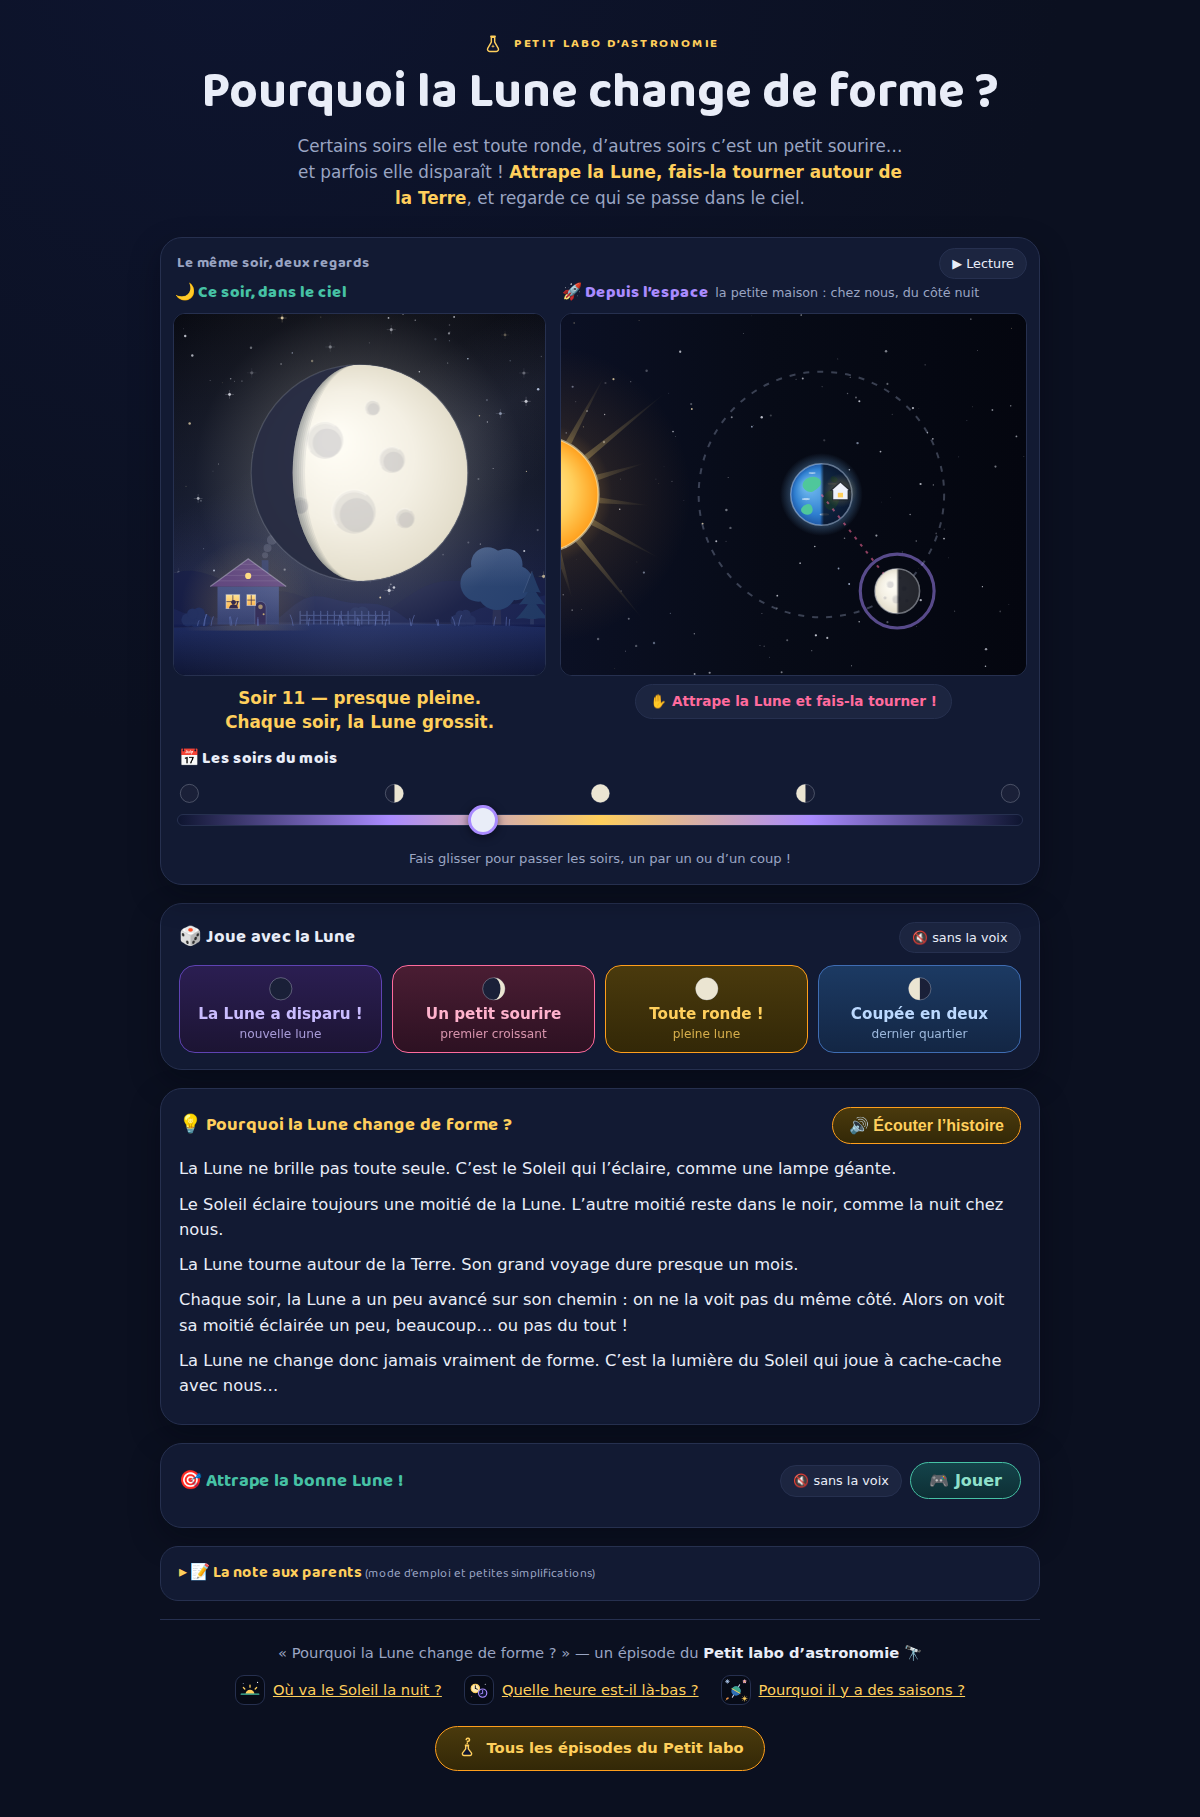
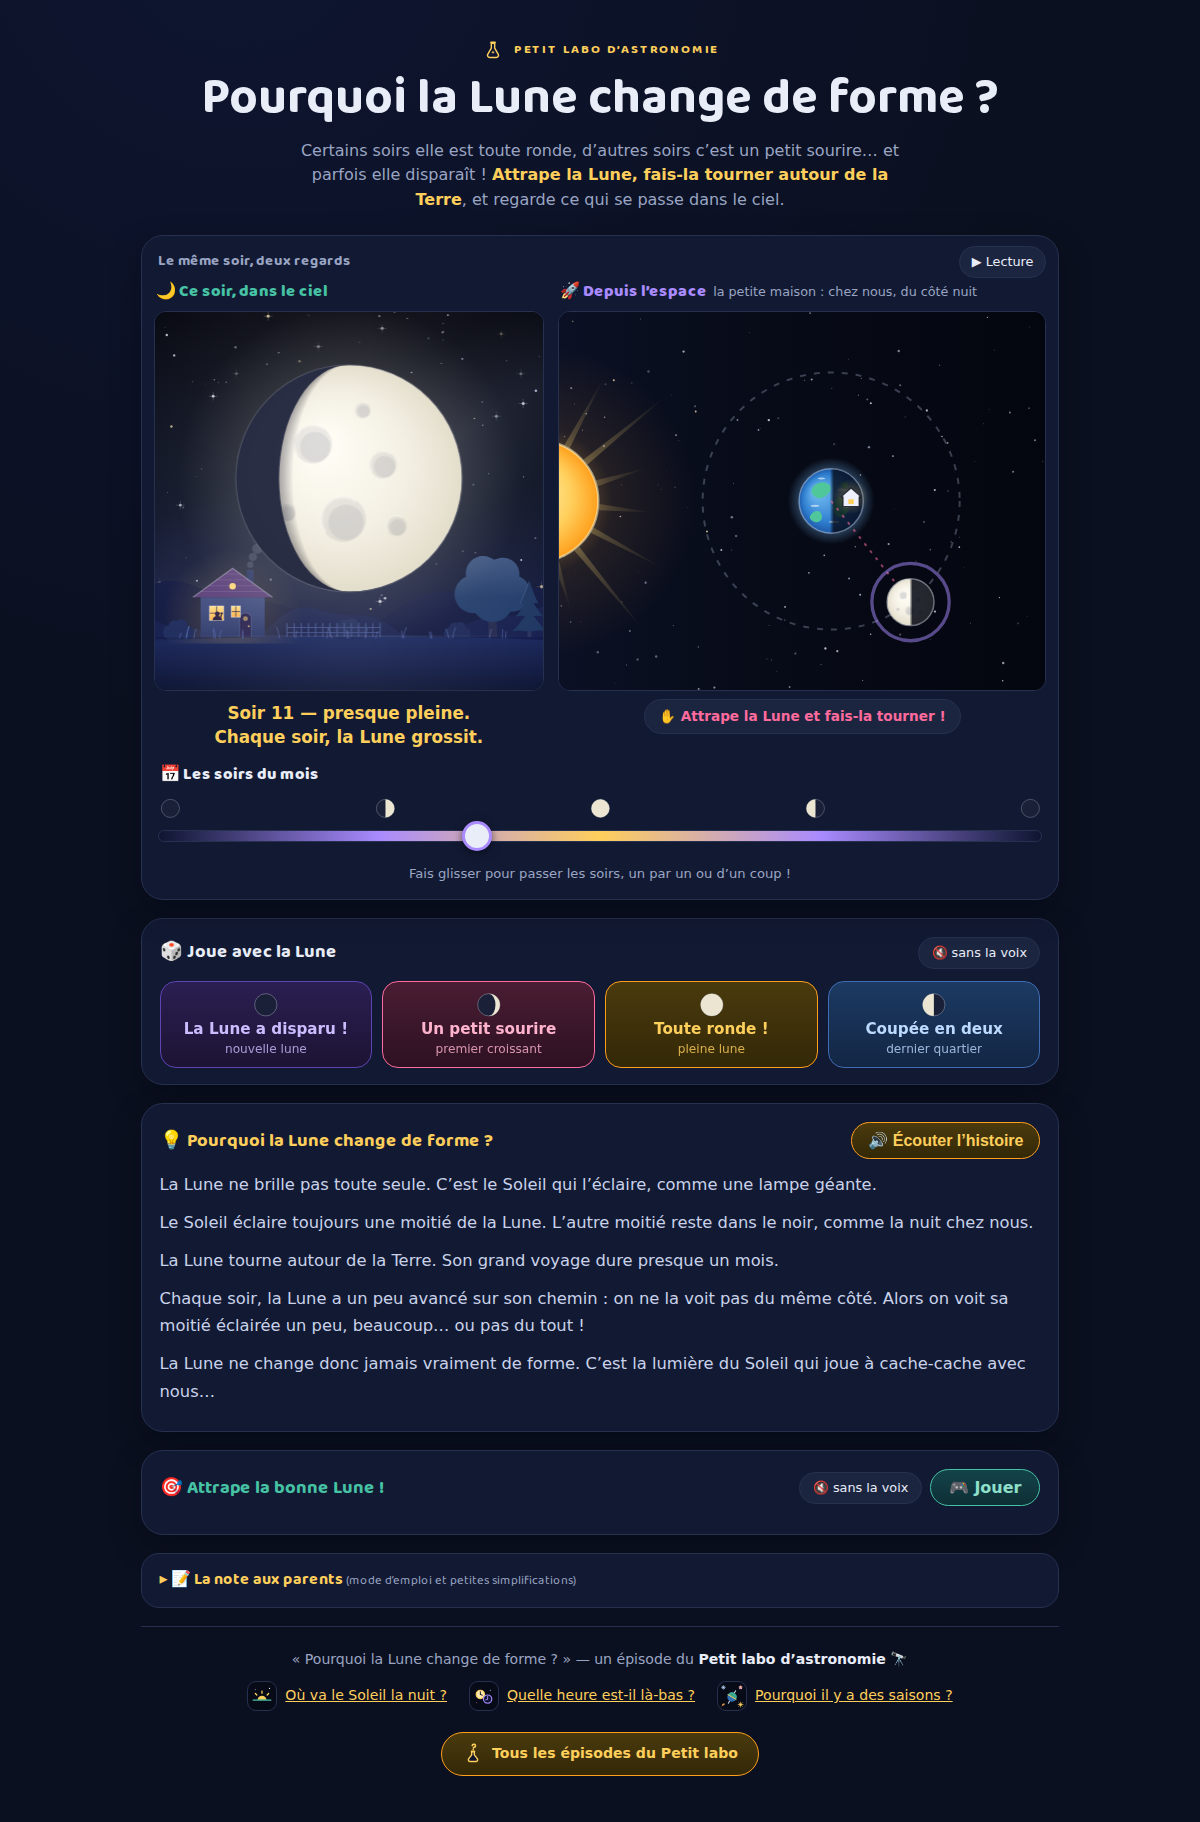
L'en-tête et les tailles de texte de la famille, plus de theme-color
Retour utilisateur : une petite bande en haut de la Lune par rapport aux
autres, et une police plus grosse sur mobile.

- la bande : body portait 20 px de marge haute que les autres n'ont pas,
  et la Lune était seule à déclarer un theme-color (#0b1020, un aplat que
  Safari iOS peint dans sa barre, visible contre le dégradé de la page).
  Marge retirée, theme-color retiré, en-tête au patron de la famille :
  38px 20px 22px, 18px 16px 10px sur mobile (kicker à 38/18 px comme les
  saisons et le soleil ; mesuré, mobile : la scène remonte de 47 px).
- les tailles : accroche 1 rem (0,92 sur mobile) au lieu de 1,05 partout ;
  corps de l'histoire en interligne 1,7 gris clair #c9d2ea ; note aux
  parents 0,93 rem ; pied 0,88 rem — la phrase du soir garde son corps.
- --entete-px re-mesuré (257 → 235, 169 → 149) ; captures docs/ régénérées ;
  tests Node et suite navigateur verts (portable 1440×900 : 887 px de large,
  tout tient encore).

Claude-Session: https://claude.ai/code/session_01Hk6FxKzoGdmQM6cSQbmVFo

diff --git a/css/style.css b/css/style.css
@@ -60,7 +60,9 @@ body {
   font-family: system-ui, -apple-system, "Segoe UI", Roboto, sans-serif;
   line-height: 1.55;
   min-height: 100vh;
-  padding: 20px 20px 40px;
+  /* pas de marge haute sur body : l'espace avant le kicker vit dans l'en-tête,
+     comme sur les autres épisodes (une bande de 20 px de plus se voyait) */
+  padding: 0 20px 40px;
 }
 
 /* la largeur de la famille : 1180 px marges comprises, 1140 px utiles,
@@ -78,13 +80,13 @@ main, header.entete, footer.pied-serie {
    (vues + phrase + frise) doivent tenir en 100vh. Mesuré à 1140 px : la
    scène fait 268 px de fixe (titres, phrase, frise, marges) + 0,432 × la
    largeur utile (les vues, 9/7 sur 1,25 colonne sur 2,25), l'en-tête
-   237 px + 20 px de marge haute du body (--entete-px). Plancher 880 px :
+   235 px (--entete-px, bas de l'en-tête = haut de la scène). Plancher 880 px :
    en dessous, l'orbite passerait sous 465 px — la vue qu'on manipule ne se
    sacrifie pas (règle de méthode de la famille). Sans clamp() (vieux
    navigateurs), la ligne est ignorée et la largeur reste 1140. Rien sous
    880 px : le mobile a son propre budget (bloc mobile plus bas). */
 @media (min-width: 880px) {
-  :root { --entete-px: 257px; }
+  :root { --entete-px: 235px; }
   main, header.entete, footer.pied-serie {
     max-width: clamp(880px, calc((100vh - 268px - var(--entete-px)) / 0.432), 1140px);
   }
@@ -109,7 +111,9 @@ main, header.entete, footer.pied-serie {
 
 /* ---------- En-tête ---------- */
 
-.entete { text-align: center; padding: 12px 0 26px; }
+/* l'en-tête de la famille (saisons, soleil, fuseaux) : 38 px avant le kicker,
+   22 sous l'accroche ; 18/16/10 sur mobile (bloc mobile plus bas) */
+.entete { text-align: center; padding: 38px 20px 22px; }
 
 /* le kicker porte la fiole de la série (l'étoile dedans) à côté de son texte,
    comme le portail porte la fiole maître à côté de son nom — règle de la charte */
@@ -140,22 +144,22 @@ main, header.entete, footer.pied-serie {
   color: var(--muted);
   max-width: 620px;
   margin: 0 auto;
-  font-size: 1.05rem;
+  font-size: 1rem; /* la taille de la famille (0,92 rem sur mobile) */
 }
 
 .tagline strong { color: var(--sun); }
 
-/* L'EN-TÊTE SE SERRE SUR LES ÉCRANS LARGES MAIS BAS (le portable) : 237 px
+/* L'EN-TÊTE SE SERRE SUR LES ÉCRANS LARGES MAIS BAS (le portable) : 235 px
    avant la première image, c'est un tiers d'un 13" pour un kicker, un titre
    et trois lignes d'accroche. Rien n'est retiré — le H1 reste le H1, la
    consigne « Attrape la Lune… » reste lue — tout se resserre : titre à
    2,4 rem, accroche à 0,95 rem sur deux lignes (largeur 860 — à 720 elle en
-   faisait encore trois), respirations réduites. Mesuré : 237 → 149 px, et
-   --entete-px (149 + 20) suit pour le plafond de largeur (bloc ci-dessus). Une règle sur la HAUTEUR : un 24" ou un
+   faisait encore trois), respirations réduites. Mesuré : 235 → 149 px, et
+   --entete-px suit pour le plafond de largeur (bloc ci-dessus). Une règle sur la HAUTEUR : un 24" ou un
    téléphone gardent l'en-tête de la charte. */
 @media (min-width: 880px) and (max-height: 849px) {
-  :root { --entete-px: 169px; }
-  .entete { padding: 8px 0 14px; }
+  :root { --entete-px: 149px; }
+  .entete { padding: 8px 20px 14px; }
   .entete h1 { font-size: 2.4rem; margin: 6px 0 8px; }
   .tagline { font-size: 0.95rem; max-width: 860px; }
 }
@@ -492,6 +496,9 @@ input[type="range"]:focus-visible { outline-offset: 4px; border-radius: 999px; }
 /* ---------- Explication ---------- */
 
 .carte-explication p { margin-bottom: 10px; font-size: 1.02rem; }
+/* le corps de l'histoire au patron de la famille : interligne 1,7, gris clair */
+#texte-explication p { line-height: 1.7; color: #c9d2ea; }
+#texte-explication strong { color: var(--text); }
 
 .conseil-voix { color: var(--muted); font-size: 0.88rem; }
 
@@ -736,7 +743,10 @@ input[type="range"]:focus-visible { outline-offset: 4px; border-radius: 999px; }
      6 px dans le vide que le curseur garde au-dessus de sa piste — jamais
      SUR le ruban. Les vues gardent leur taille : le bandeau 13/6 du jardin
      et le carré de l'espace (la vue qu'on manipule ne se sacrifie pas). */
-  body { padding: 20px 14px 40px; }
+  body { padding: 0 14px 40px; }
+  /* en-tête compact de la famille : la Lune doit se voir dès le premier écran */
+  .entete { padding: 18px 16px 10px; }
+  .tagline { font-size: 0.92rem; }
   .carte-scene { padding: 10px 12px 12px; }
   .entete-scene { font-size: 0.82rem; margin-bottom: 4px; }
   .grille-vues { gap: 4px; }
@@ -816,7 +826,7 @@ input[type="range"]:focus-visible { outline-offset: 4px; border-radius: 999px; }
   color: var(--teal);
 }
 
-.note-parents ul { margin: 8px 0 12px 20px; font-size: 0.94rem; }
+.note-parents ul { margin: 8px 0 12px 20px; font-size: 0.93rem; }
 
 /* le mot de la fin, hors listes : ce qu'un parent retient s'il ne lit qu'une ligne */
 .note-parents-mot {
@@ -837,7 +847,7 @@ input[type="range"]:focus-visible { outline-offset: 4px; border-radius: 999px; }
 .pied-serie {
   text-align: center;
   color: var(--muted);
-  font-size: 0.92rem;
+  font-size: 0.88rem;
   margin-top: 26px;
   border-top: 1px solid var(--border);
   padding-top: 22px;

diff --git a/index.html b/index.html
@@ -6,7 +6,6 @@
        retrouver avec une page minuscule — les zooms d'accessibilité du système
        (triple-tap iOS, loupe Android, « forcer le zoom ») restent utilisables -->
   <meta name="viewport" content="width=device-width, initial-scale=1, maximum-scale=1, user-scalable=no">
-  <meta name="theme-color" content="#0b1020">
   <title>Pourquoi la Lune change de forme ? — les phases de la Lune expliquées aux enfants</title>
   <meta name="description" content="La Lune ne change pas : on la voit autrement chaque nuit ! Fais-la tourner autour de la Terre et vois sa forme changer. Dès 5 ans, gratuit et sans publicité.">
   <!-- socle SEO : adresse canonique (petit-labo.fr, sans www — le site est servi

diff --git a/CLAUDE.md b/CLAUDE.md
@@ -212,7 +212,11 @@ Vérités verrouillées par `test/model.test.mjs` (à compléter, jamais supprim
   « 🚀 Depuis l'espace » — « la petite maison : chez nous, du côté nuit » —
   visible partout, sous le titre sur mobile (« Le Soleil éclaire depuis la
   gauche » est parti : l'image le montre ; aucun de ces textes n'était
-  parlé). La **largeur de page est celle de la famille** : 1180 px marges
+  parlé). **Les tailles de texte sont celles de la famille** (retour
+  utilisateur : la police paraissait plus grosse sur mobile) : accroche
+  1 rem, 0,92 rem sur mobile ; corps de l'histoire 1,02 rem, interligne
+  1,7, gris clair `#c9d2ea` ; note aux parents 0,93 rem ; pied 0,88 rem —
+  seule la phrase du soir (1,05 rem, or, gras) reste propre à l'épisode. La **largeur de page est celle de la famille** : 1180 px marges
   comprises, 1140 utiles (`max-width: 1140px` + 20 px de body ; la Lune
   vivait à 1060) — **plafonnée par la hauteur visible sur grand écran**
   (retour utilisateur : sur un portable 13", la page dimensionnée par la
@@ -221,15 +225,19 @@ Vérités verrouillées par `test/model.test.mjs` (à compléter, jamais supprim
   0.432, 1140px)` sur `main`, l'en-tête et le pied, pour qu'en-tête + scène
   (vues, phrase, frise) tiennent en 100vh. Constantes MESURÉES à 1140 px :
   268 px de fixe dans la scène, 0,432 × largeur pour les vues (9/7 sur
-  1,25 colonne sur 2,25), `--entete-px` = en-tête + 20 px de marge du body.
+  1,25 colonne sur 2,25), `--entete-px` = bas de l'en-tête (235 px ; plus de marge haute sur `body`,
+  l'espace avant le kicker vit dans l'en-tête comme sur les autres épisodes :
+  38 px, 18 sur mobile — une bande de 20 px de plus se voyait, et le
+  `theme-color` que la Lune était seule à porter teintait la barre de Safari
+  d'un aplat visible contre le dégradé de la page : retiré).
   Plancher 880 px (l'orbite ne descend pas sous 465 px : la vue qu'on
   manipule ne se sacrifie pas). Mesuré : 24" 1080p → 984 px de large et
   tout tient, 27" → 1140 inchangé, 13" → plancher. Sans `clamp()`, 1140.
   **L'en-tête se serre sur les écrans larges mais bas** (`min-width:
   880px and max-height: 849px`, le portable) : titre 2,4 rem, accroche
-  0,95 rem sur deux lignes (largeur 860), respirations réduites — 237 →
+  0,95 rem sur deux lignes (largeur 860), respirations réduites — 235 →
   149 px, rien de retiré (le H1 reste le H1, la consigne reste lue), et
-  `--entete-px` passe à 169. Mesuré : 13" 1440×900 → 887 px de large, tout
+  `--entete-px` passe à 149. Mesuré : 13" 1440×900 → 887 px de large, tout
   tient ; 13" 1280×800 → il reste ~100 px à faire défiler, accepté (le
   plancher de largeur prime). Toute retouche des marges de la scène ou de
   l'en-tête se re-mesure et se reporte dans ces constantes. La **pilule « ✋ Attrape la Lune… » est éphémère sur mobile
